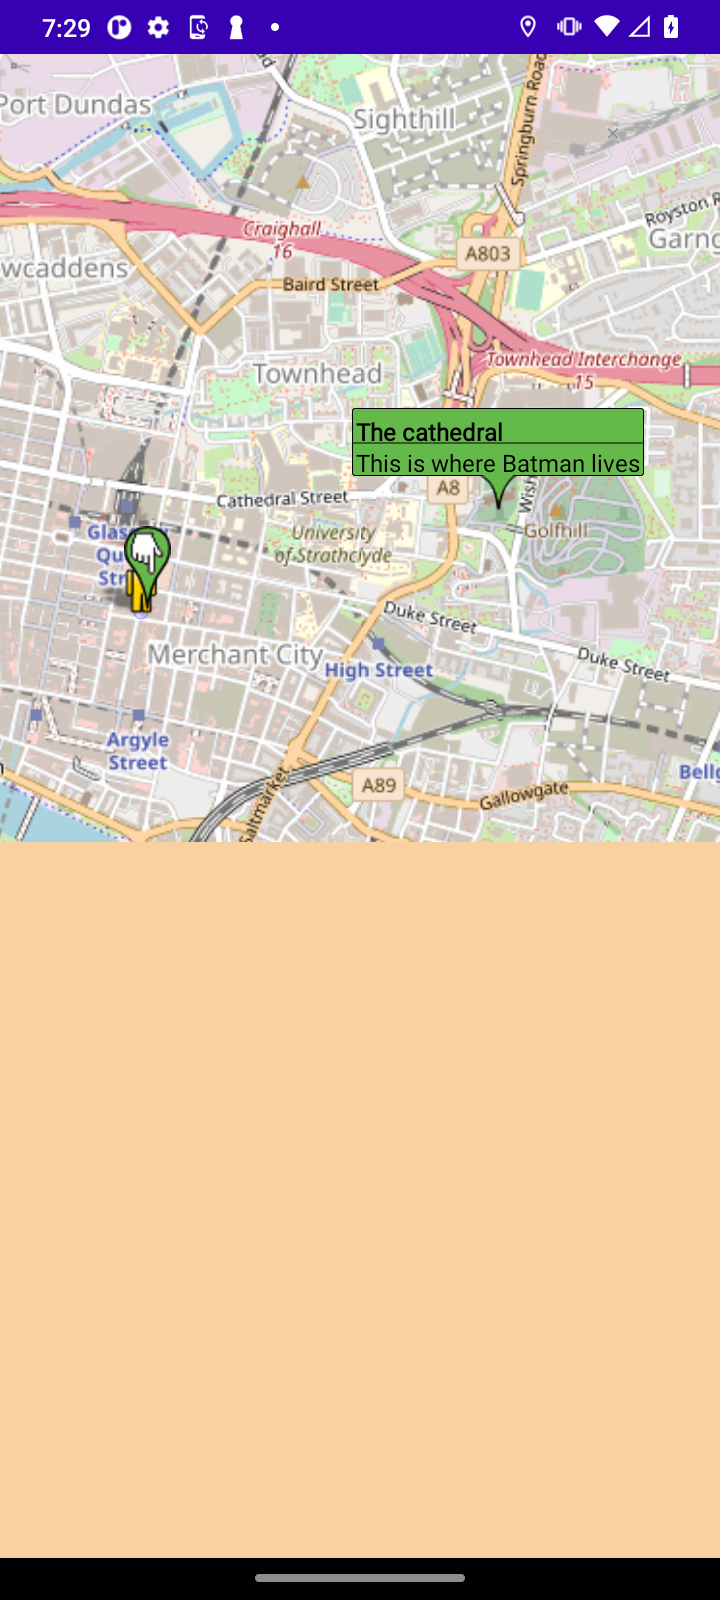
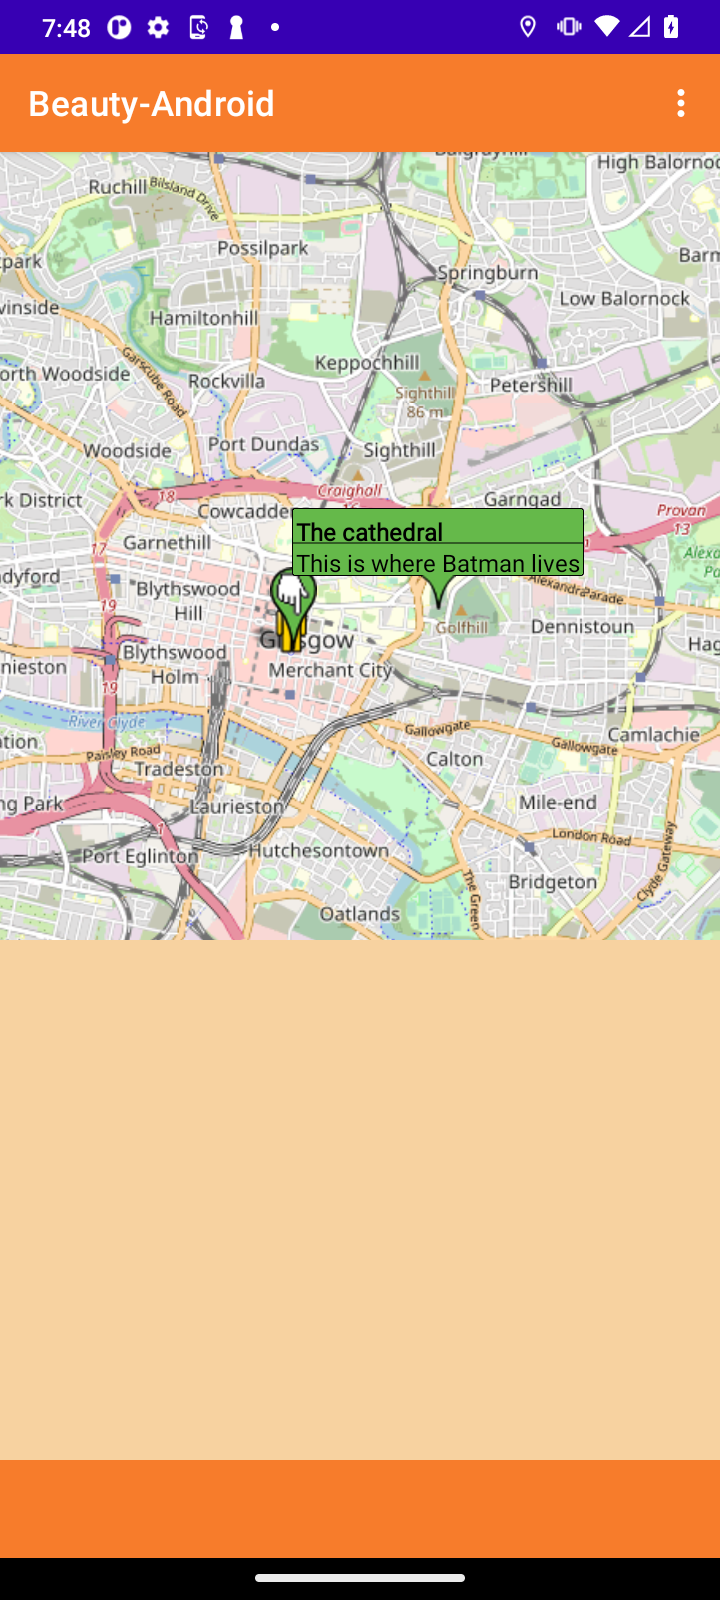
OpenStreetMap map view added

diff --git a/app/src/main/java/com/example/beautyandroid/FragmentMap.java b/app/src/main/java/com/example/beautyandroid/FragmentMap.java
@@ -18,31 +18,115 @@
 
 package com.beautyorder.androidclient;
 
+import android.Manifest;
+import android.app.Activity;
+import android.content.Context;
+import android.content.pm.PackageManager;
 import android.os.Bundle;
+import android.preference.PreferenceManager;
+import android.util.Log;
 import android.view.LayoutInflater;
 import android.view.View;
 import android.view.ViewGroup;
 import androidx.annotation.NonNull;
+import androidx.core.app.ActivityCompat;
+import androidx.core.content.ContextCompat;
 import androidx.fragment.app.Fragment;
 import com.beautyorder.androidclient.databinding.FragmentMapBinding;
+import java.util.ArrayList;
+import org.osmdroid.api.IMapController;
+import org.osmdroid.config.Configuration;
+import org.osmdroid.tileprovider.tilesource.TileSourceFactory;
+import org.osmdroid.util.GeoPoint;
+import org.osmdroid.views.MapView;
+import org.osmdroid.views.overlay.ItemizedIconOverlay;
+import org.osmdroid.views.overlay.ItemizedOverlayWithFocus;
+import org.osmdroid.views.overlay.OverlayItem;
+import org.osmdroid.views.overlay.mylocation.GpsMyLocationProvider;
+import org.osmdroid.views.overlay.mylocation.MyLocationNewOverlay;
 
 public class FragmentMap extends Fragment {
 
     private FragmentMapBinding binding;
+
+    private final int REQUEST_PERMISSIONS_REQUEST_CODE = 1;
+    private MapView map = null;
+
+    private MyLocationNewOverlay mLocationOverlay;
 
     @Override
     public View onCreateView(
             LayoutInflater inflater, ViewGroup container,
             Bundle savedInstanceState
     ) {
-
         binding = FragmentMapBinding.inflate(inflater, container, false);
         return binding.getRoot();
-
     }
 
     public void onViewCreated(@NonNull View view, Bundle savedInstanceState) {
         super.onViewCreated(view, savedInstanceState);
+
+        //handle permissions first, before map is created. not depicted here
+
+        //load/initialize the osmdroid configuration, this can be done
+        Context ctx = view.getContext();
+        Configuration.getInstance().load(ctx, PreferenceManager.getDefaultSharedPreferences(ctx));
+        //setting this before the layout is inflated is a good idea
+        //it 'should' ensure that the map has a writable location for the map cache, even without permissions
+        //if no tiles are displayed, you can try overriding the cache path using Configuration.getInstance().setCachePath
+        //see also StorageUtils
+        //note, the load method also sets the HTTP User Agent to your application's package name, abusing osm's
+        //tile servers will get you banned based on this string
+
+        //inflate and create the map
+        map = (MapView) view.findViewById(R.id.map);
+        map.setTileSource(TileSourceFactory.MAPNIK);
+
+        String[] permissions = {
+                Manifest.permission.WRITE_EXTERNAL_STORAGE,
+                Manifest.permission.ACCESS_FINE_LOCATION
+        };
+        requestPermissionsIfNecessary(
+                view.getContext(),
+                // if you need to show the current location, uncomment the line below
+                // WRITE_EXTERNAL_STORAGE is required in order to show the map
+                permissions
+        );
+
+        map.setBuiltInZoomControls(true);
+        map.setMultiTouchControls(true);
+
+        IMapController mapController = map.getController();
+        mapController.setZoom(12.5);
+        GeoPoint startPoint = new GeoPoint(55.8642, -4.2518);
+        mapController.setCenter(startPoint);
+
+        this.mLocationOverlay = new MyLocationNewOverlay(new GpsMyLocationProvider(ctx),map);
+        this.mLocationOverlay.enableMyLocation();
+        map.getOverlays().add(this.mLocationOverlay);
+
+        //your items
+        ArrayList<OverlayItem> items = new ArrayList<OverlayItem>();
+        items.add(new OverlayItem("My position", "This is where Mathieu lives", new GeoPoint(55.8602,-4.2502))); // Lat/Lon decimal degrees
+        items.add(new OverlayItem("The cathedral", "This is where Batman lives", new GeoPoint(55.8627,-4.2346))); // Lat/Lon decimal degrees
+
+        //the overlay
+        ItemizedOverlayWithFocus<OverlayItem> mOverlay = new ItemizedOverlayWithFocus<OverlayItem>(items,
+                new ItemizedIconOverlay.OnItemGestureListener<OverlayItem>() {
+                    @Override
+                    public boolean onItemSingleTapUp(final int index, final OverlayItem item) {
+                        Log.i("BeautyAndroid", "Single tap");
+                        return true;
+                    }
+                    @Override
+                    public boolean onItemLongPress(final int index, final OverlayItem item) {
+                        Log.i("BeautyAndroid", "Long press");
+                        return false;
+                    }
+                }, ctx);
+        mOverlay.setFocusItemsOnTap(true);
+
+        map.getOverlays().add(mOverlay);
     }
 
     @Override
@@ -51,4 +135,40 @@ public class FragmentMap extends Fragment {
         binding = null;
     }
 
+    @Override
+    public void onResume() {
+        super.onResume();
+        //this will refresh the osmdroid configuration on resuming.
+        //if you make changes to the configuration, use
+        //SharedPreferences prefs = PreferenceManager.getDefaultSharedPreferences(this);
+        //Configuration.getInstance().load(this, PreferenceManager.getDefaultSharedPreferences(this));
+        map.onResume(); //needed for compass, my location overlays, v6.0.0 and up
+    }
+
+    @Override
+    public void onPause() {
+        super.onPause();
+        //this will refresh the osmdroid configuration on resuming.
+        //if you make changes to the configuration, use
+        //SharedPreferences prefs = PreferenceManager.getDefaultSharedPreferences(this);
+        //Configuration.getInstance().save(this, prefs);
+        map.onPause();  //needed for compass, my location overlays, v6.0.0 and up
+    }
+
+    private void requestPermissionsIfNecessary(Context context, String[] permissions) {
+        ArrayList<String> permissionsToRequest = new ArrayList<>();
+        for (String permission : permissions) {
+            if (ContextCompat.checkSelfPermission(context, permission)
+                != PackageManager.PERMISSION_GRANTED) {
+                // Permission is not granted
+                permissionsToRequest.add(permission);
+            }
+        }
+        if (permissionsToRequest.size() > 0) {
+            ActivityCompat.requestPermissions(
+                (Activity)context,
+                permissionsToRequest.toArray(new String[0]),
+                REQUEST_PERMISSIONS_REQUEST_CODE);
+        }
+    }
 }

diff --git a/app/src/main/java/com/example/beautyandroid/MainActivity.java b/app/src/main/java/com/example/beautyandroid/MainActivity.java
@@ -18,18 +18,22 @@
 
 package com.beautyorder.androidclient;
 
+import android.Manifest;
+import android.content.Context;
+import android.content.pm.PackageManager;
 import android.os.Bundle;
-import com.google.android.material.snackbar.Snackbar;
-import androidx.appcompat.app.AppCompatActivity;
+import android.preference.PreferenceManager;
+import android.util.Log;
+import android.view.LayoutInflater;
+import android.view.ViewGroup;
 import android.view.View;
-import androidx.navigation.NavController;
-import androidx.navigation.Navigation;
+import androidx.appcompat.app.AppCompatActivity;
+import androidx.core.app.ActivityCompat;
+import androidx.core.content.ContextCompat;
 import androidx.navigation.ui.AppBarConfiguration;
-import androidx.navigation.ui.NavigationUI;
-import com.beautyorder.androidclient.databinding.ActivityMainBinding;
-
 import android.view.Menu;
 import android.view.MenuItem;
+import com.beautyorder.androidclient.databinding.ActivityMainBinding;
 
 public class MainActivity extends AppCompatActivity {
 
